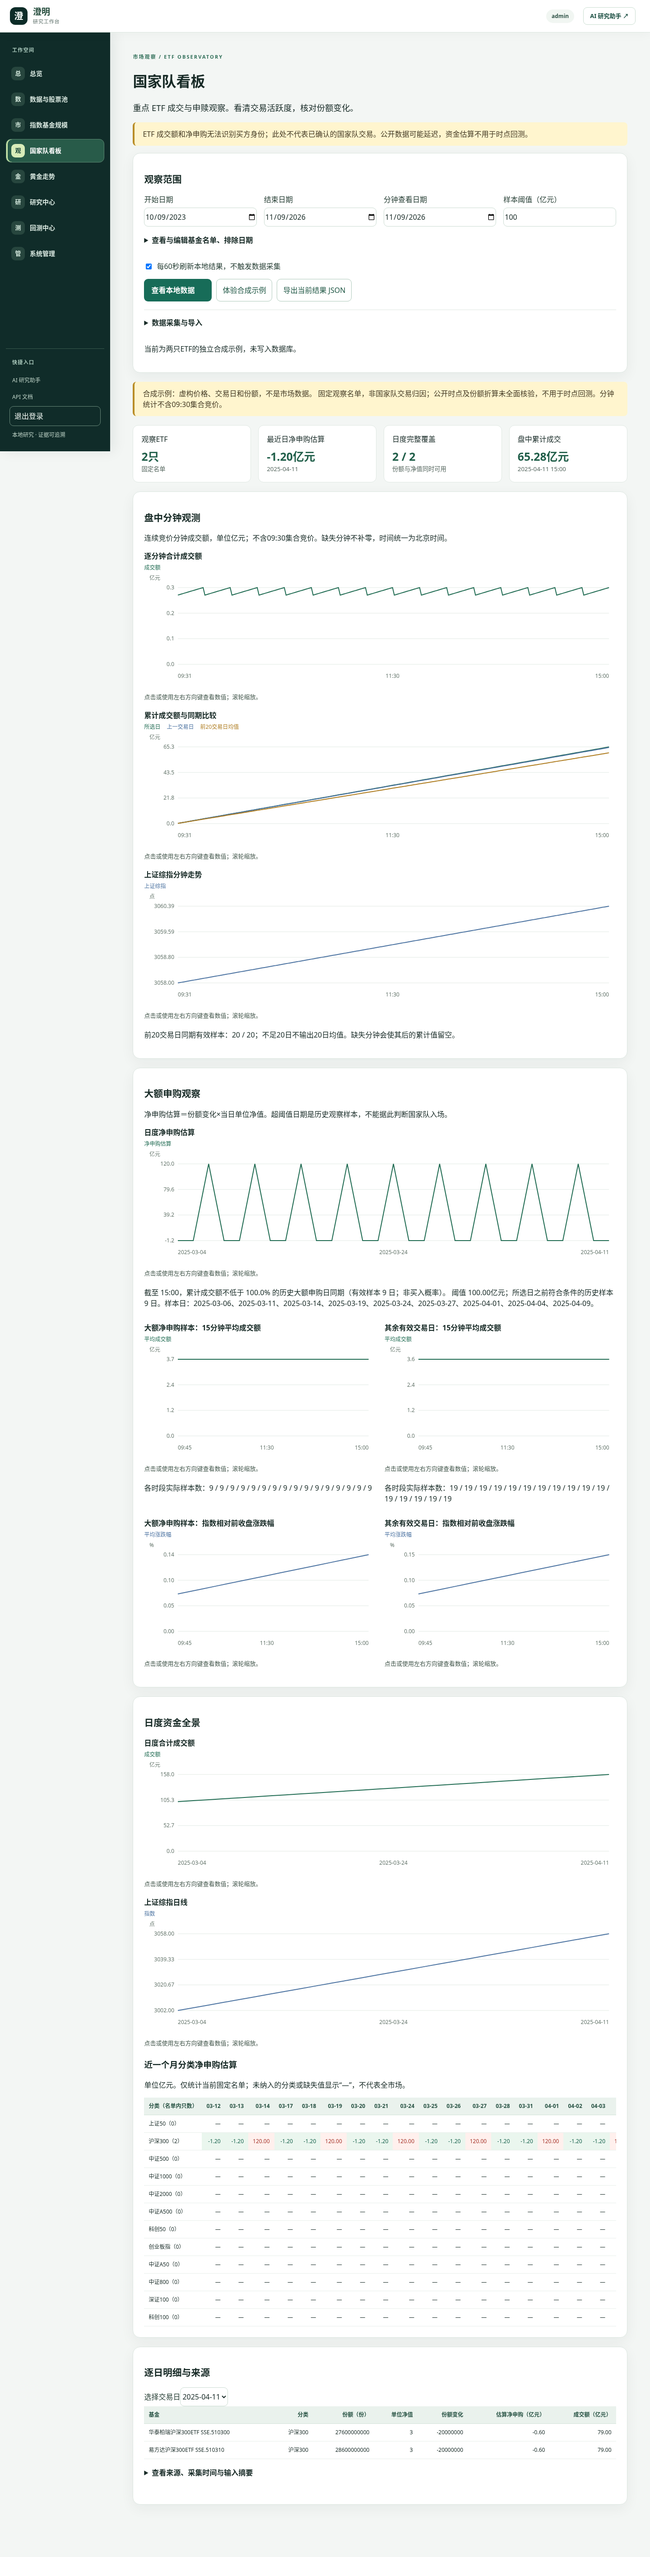
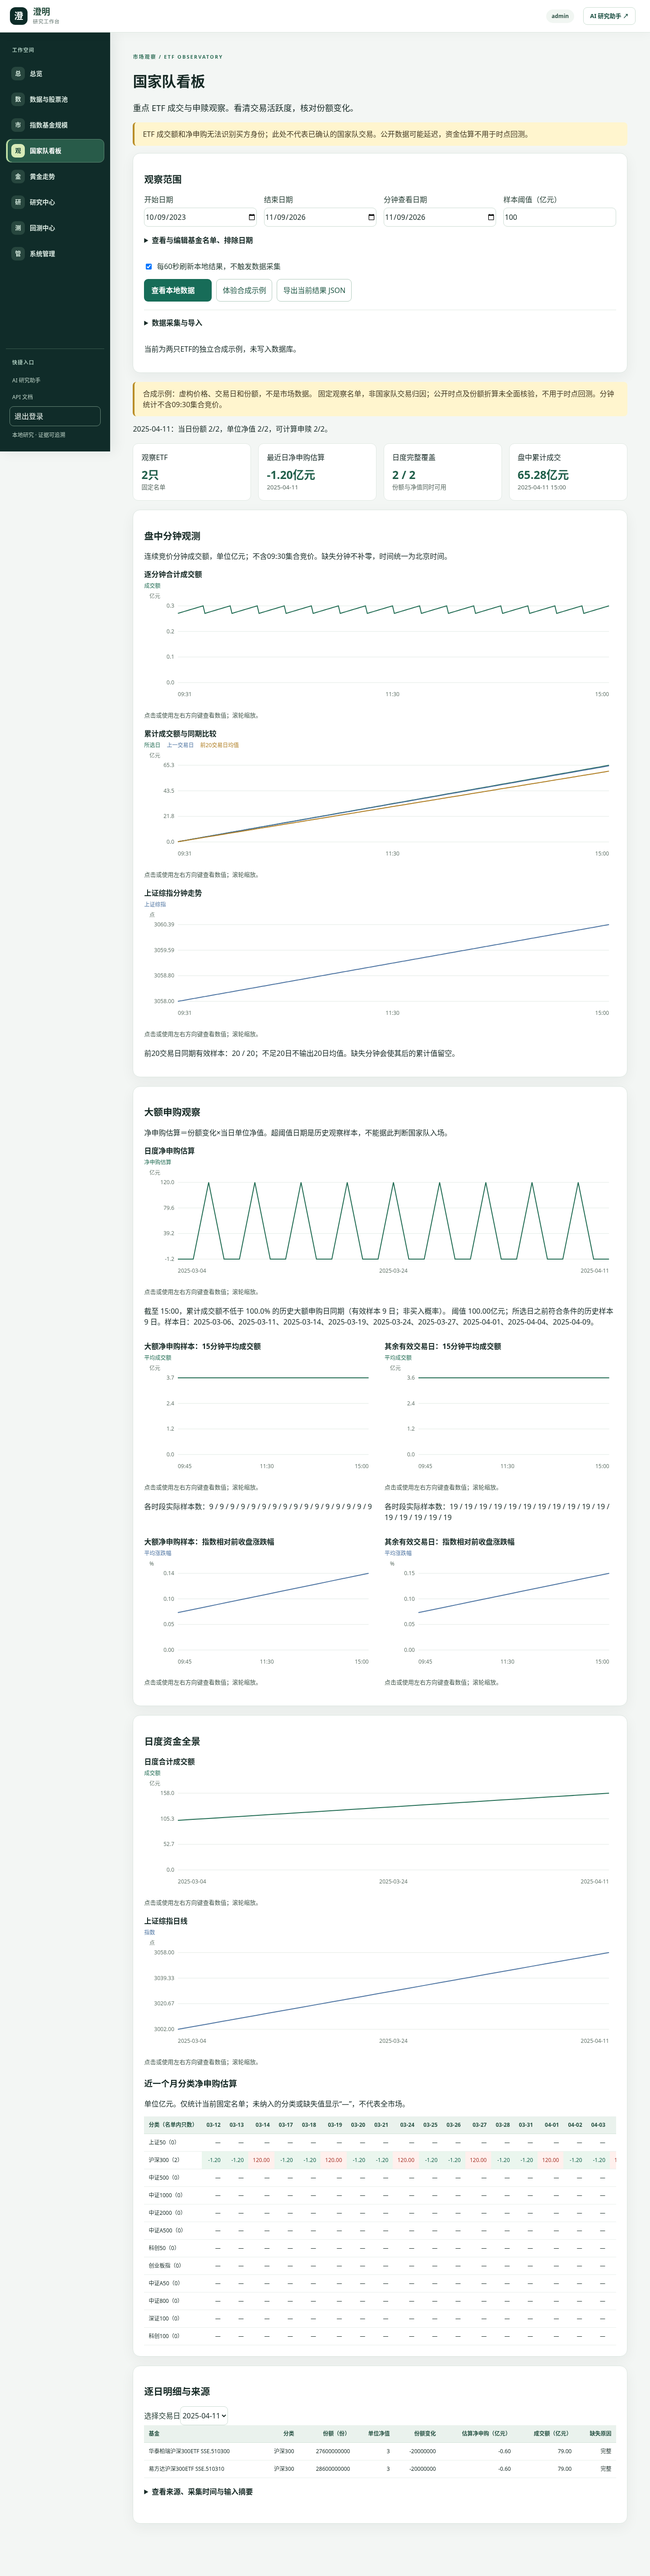
Isolate ETF source failures and expose missing daily inputs

diff --git a/src/ai_quant_assistant/web/static/national-team.js b/src/ai_quant_assistant/web/static/national-team.js
@@ -54,7 +54,9 @@
   function table(container, headers, rows) {const t=el("table"),head=el("thead"),hr=el("tr");headers.forEach(h=>hr.append(el("th",h)));head.append(hr);t.append(head);const body=el("tbody");rows.forEach(row=>{const tr=el("tr");row.forEach(v=>{const td=el("td",v?.text??v);if(v?.cls)td.className=v.cls;tr.append(td);});body.append(tr);});t.append(body);container.replaceChildren(t);}
   function render(data){observers.forEach(o=>o.disconnect());observers=[];current=data;$("nt-results").hidden=false;$("nt-banner").textContent=(data.demo?"合成示例：虚构价格、交易日和份额，不是市场数据。 ":"")+data.warning;
     const last=data.daily.at(-1),lastMinute=[...data.minute].reverse().find(p=>p.cumulative!==null&&p.cumulative!==undefined);
-    $("nt-metrics").replaceChildren();for(const [label,value,note] of [["观察ETF",data.funds.length+"只","固定名单"],["最近日净申购估算",money(last?.flow)+"亿元",last?.date||"暂无数据"],["日度完整覆盖",(last?.covered||0)+" / "+data.funds.length,"份额与净值同时可用"],["盘中累计成交",money(lastMinute?.cumulative)+"亿元",data.selected_day+" "+(lastMinute?.time||"待更新")]]){const card=el("div",undefined,"nt-metric");card.append(el("span",label),el("strong",value),el("small",note));$("nt-metrics").append(card);}
+    $("nt-metrics").replaceChildren();for(const [label,value,note] of [["观察ETF",data.funds.length+"只","固定名单"],["最近日净申购估算",last?.flow==null?"待补齐":money(last.flow)+"亿元",last?.date||"暂无数据"],["日度完整覆盖",(last?.covered||0)+" / "+data.funds.length,"份额与净值同时可用"],["盘中累计成交",money(lastMinute?.cumulative)+"亿元",data.selected_day+" "+(lastMinute?.time||"待更新")]]){const card=el("div",undefined,"nt-metric");card.append(el("span",label),el("strong",value),el("small",note));$("nt-metrics").append(card);}
+    const sourceErrors=(data.batches||[]).flatMap(b=>b.errors||[]);
+    $("nt-coverage").textContent=last?`${last.date}：当日份额 ${(last.details||[]).filter(x=>x.shares!=null).length}/${data.funds.length}，单位净值 ${(last.details||[]).filter(x=>x.nav!=null).length}/${data.funds.length}，可计算申赎 ${last.covered}/${data.funds.length}。`+(last.covered<data.funds.length?" 缺失原因见逐日明细。收盘后净值或份额可能尚未披露；自动分钟采集不会补齐日度数据。":"")+(sourceErrors.length?" 最近来源错误："+sourceErrors.slice(0,8).map(e=>e.partition+"："+(e.reason||e.error)+(e.http_status?" HTTP "+e.http_status:"")).join("；"):""):"暂无交易日数据。";
     const green="#216c53",blue="#4c73a1",gold="#af7d21";
     chart("nt-minute-chart","逐分钟合计成交额",data.minute,[{key:"amount",name:"成交额",color:green}]);
     chart("nt-cumulative-chart","累计成交额与同期比较",data.minute,[{key:"cumulative",name:"所选日",color:green},{key:"previous",name:"上一交易日",color:blue},{key:"mean20",name:"前20交易日均值",color:gold}]);
@@ -68,12 +70,12 @@
     const recent=data.daily.filter(p=>!cutoff||p.date>=cutoff.toISOString().slice(0,10));
     table($("nt-heatmap"),["分类（名单内只数）",...recent.map(p=>p.date.slice(5))],groups.map(g=>[g+"（"+data.funds.filter(f=>f.group===g).length+"）",...recent.map(p=>({text:money(p.groups[g]?.flow),cls:numeric(p.groups[g]?.flow)>0?"nt-positive":numeric(p.groups[g]?.flow)<0?"nt-negative":""}))]));
     $("nt-detail-day").replaceChildren();for(const p of data.daily) {const option=el("option",p.date);option.value=p.date;$("nt-detail-day").append(option);}if(latest)$("nt-detail-day").value=latest;details();
-    $("nt-provenance").textContent=JSON.stringify({funds:data.funds,scope:data.scope,start:data.start,end:data.end,version:data.version,threshold:data.threshold,excluded:data.excluded,input_sha256:data.input_sha256,as_of:data.as_of,batches:data.batches},null,2);
+    $("nt-provenance").textContent=JSON.stringify({batches:data.batches,funds:data.funds,scope:data.scope,start:data.start,end:data.end,version:data.version,threshold:data.threshold,excluded:data.excluded,input_sha256:data.input_sha256,as_of:data.as_of},null,2);
   }
-  function details(){const p=current?.daily.find(x=>x.date===$("nt-detail-day").value);table($("nt-details"),["基金","分类","份额（份）","单位净值","份额变化","估算净申购（亿元）","成交额（亿元）"],(p?.details||[]).map(x=>[x.name+" "+x.code,x.group,x.shares??"—",x.nav??"—",x.change??"—",x.corporate_action?"折算待核验":money(x.flow),money(x.amount)]));}
+  function details(){const p=current?.daily.find(x=>x.date===$("nt-detail-day").value);table($("nt-details"),["基金","分类","份额（份）","单位净值","份额变化","估算净申购（亿元）","成交额（亿元）","缺失原因"],(p?.details||[]).map(x=>[x.name+" "+x.code,x.group,x.shares??"—",x.nav??"—",x.change??"—",x.corporate_action?"折算待核验":money(x.flow),money(x.amount),(x.missing||[]).join("、")||"完整"]));}
   async function query(){const own=++generation,body=scope();$("nt-status").textContent="正在读取本地数据…";try {const data=await request("/query",body);if(own!==generation)return;render(data);dirty=false;$("nt-status").textContent=data.daily.length?"已读取本地数据；编辑参数后须重新查询。":"本地无可用交易日历；可先体验合成示例或同步数据。";} catch(error) {if(own===generation) throw error;}}
   function guard(fn){return async()=>{try{await fn();}catch(e){$("nt-status").textContent=e.message;}};}
-  async function poll(){clearTimeout(taskTimer);if(!taskId)return;try{const t=await request("/tasks/"+encodeURIComponent(taskId));$("nt-task").textContent=t.status+" · "+t.progress+"% · "+t.message+(t.error?" · "+t.error:"");if(["queued","running"].includes(t.status)){taskTimer=setTimeout(poll,2500);}else{$("nt-resume").hidden=true;sessionStorage.removeItem("nt-task");taskId=null;$("nt-task").textContent+="。请点击查看本地数据刷新结果。";}}catch(e){$("nt-task").textContent="进度查询失败："+e.message;$("nt-resume").hidden=false;}}
+  async function poll(){clearTimeout(taskTimer);if(!taskId)return;try{const t=await request("/tasks/"+encodeURIComponent(taskId));$("nt-task").textContent=t.status+" · "+t.progress+"% · "+t.message+(t.error?" · "+t.error:"")+(t.result?.errors?.length?" · "+t.result.errors.slice(0,5).map(e=>e.partition+":"+(e.reason||e.error)+(e.http_status?" HTTP "+e.http_status:"")).join("；"):"");if(["queued","running"].includes(t.status)){taskTimer=setTimeout(poll,2500);}else{$("nt-resume").hidden=true;sessionStorage.removeItem("nt-task");taskId=null;$("nt-task").textContent+="。请点击查看本地数据刷新结果。";}}catch(e){$("nt-task").textContent="进度查询失败："+e.message;$("nt-resume").hidden=false;}}
   function confirmed(){if(!$("nt-confirm").checked)throw Error("请勾选确认后再采集或更改计划");}
   async function sync(mode){confirmed();const t=await request("/sync",{...scope(),mode,confirm:true});taskId=t.task_id;sessionStorage.setItem("nt-task",taskId);poll();}
   async function schedule(enabled){confirmed();const result=await request("/schedule",{scope:scope(),enabled,confirm:true});$("nt-schedule").textContent=result.enabled?"交易时段自动采集已启用（服务器统一运行）；关闭页面后仍执行。":"自动采集已停止；已提交的任务会完成。";}

diff --git a/src/ai_quant_assistant/web/templates/national-team.html b/src/ai_quant_assistant/web/templates/national-team.html
@@ -31,7 +31,7 @@
 <button type="button" id="nt-import">确认导入文件</button><p>最多16 MiB，文件应包含 scope、source、rows；格式与字段见项目文档 national-team-dashboard.md。导入来源保留为未核验。</p>
 </details><p id="nt-status" role="status" aria-live="polite">正在读取观察名单…</p></section>
 <div id="nt-results" hidden>
-<div id="nt-banner" class="nt-note"></div><div id="nt-metrics" class="nt-metrics"></div>
+<div id="nt-banner" class="nt-note"></div><p id="nt-coverage" role="status"></p><div id="nt-metrics" class="nt-metrics"></div>
 <section class="panel"><h2>盘中分钟观测</h2><p>连续竞价分钟成交额，单位亿元；不含09:30集合竞价。缺失分钟不补零，时间统一为北京时间。</p>
 <div id="nt-minute-chart"></div><div id="nt-cumulative-chart"></div><div id="nt-index-minute"></div><p id="nt-history"></p></section>
 <section class="panel"><h2>大额申购观察</h2><p>净申购估算＝份额变化×当日单位净值。超阈值日期是历史观察样本，不能据此判断国家队入场。</p>

diff --git a/src/ai_quant_assistant/storage/national_team.py b/src/ai_quant_assistant/storage/national_team.py
@@ -228,29 +228,42 @@ class NationalTeamService:
             else:
                 for code in [*codes, "INDEX.000001"]:
                     calls.append((f"daily:{code}", lambda code=code: provider.bars(code, days[0], spec["end"])))
-                for code in codes:
-                    calls.append((f"nav:{code}", lambda code=code: provider.fetch_nav(code, days[0], spec["end"])))
-                for day in days:
+                months = sorted({d[:7] for d in days}, reverse=True)
+                for month in months:
+                    month_days = [d for d in days if d.startswith(month)]
+                    for code in codes:
+                        calls.append((f"nav:{code}:{month}", lambda code=code, month_days=month_days: provider.fetch_nav(code, month_days[0], month_days[-1])))
+                for day in reversed(days):
                     for market in sorted({c.split(".")[0] for c in codes}):
                         calls.append((f"shares:{market}:{day}", lambda market=market, day=day: provider.fetch_shares(market, day, codes)))
-            rows, errors, failures = [], [], 0
+            rows, errors, failures, skipped = [], [], {}, {}
             for i, (key, fetch) in enumerate(calls):
+                family = ":".join(key.split(":")[:2]) if key.startswith("shares:") else key.split(":")[0]
+                if failures.get(family, 0) >= 5:
+                    skipped[family] = skipped.get(family, 0) + 1
+                    continue
                 if not self.tasks.progress(task_id, owner_id=owner, progress=int(95 * i / len(calls)), message=f"采集 {key}"):
                     return
                 try:
                     rows.extend(validate_rows(fetch()))
-                    failures = 0
+                    failures[family] = 0
                 except Exception as exc:
                     # Never include provider URLs, headers or credential values.
-                    errors.append({"partition": key, "error": type(exc).__name__})
-                    failures += 1
-                    if failures >= 5:
-                        if not rows:
-                            raise ValueError("连续来源失败，请检查网络与数据源后重试") from exc
-                        errors.append({"partition": "remaining", "error": "StoppedAfterFiveFailures", "count": len(calls) - i - 1})
-                        break
+                    detail = {"partition": key, "error": type(exc).__name__}
+                    response = getattr(exc, "response", None)
+                    if response is not None:
+                        detail["http_status"] = response.status_code
+                    if type(exc) is ValueError and str(exc) in {
+                        "净值分页不完整，未发布此基金净值", "净值分页总数发生变化，请重试",
+                        "净值来源返回范围外数据", "上交所返回了不同统计日期", "上交所份额响应被截断",
+                    }:
+                        detail["reason"] = str(exc)
+                    errors.append(detail)
+                    failures[family] = failures.get(family, 0) + 1
+            errors.extend({"partition": family, "error": "StoppedAfterFiveFailures", "count": count} for family, count in skipped.items())
             if not rows:
-                raise ValueError("来源未返回有效记录，保留已有数据")
+                self.tasks.fail(task_id, owner_id=owner, message="所有来源均未返回有效记录，已有数据保留", error="请查看各来源错误", result={"errors": errors})
+                return
             self.save(spec, rows, "public:exchange/eastmoney", errors, task_id, owner)
         except Exception as exc:
             self.tasks.fail(task_id, owner_id=owner, message="采集失败，已有数据保留", error=type(exc).__name__ + ": 请检查来源或交易日历后重试")

diff --git a/tests/test_national_team.py b/tests/test_national_team.py
@@ -261,3 +261,56 @@ def test_confirmed_sync_api_dispatches_and_completes(app, mode):
             assert result["daily"][0]["flow"] == "100.0"
         else:
             assert result["minute"][0]["amount"] == "20"
+
+
+def test_nav_pagination_continues_past_twenty_pages(monkeypatch):
+    from datetime import timedelta
+
+    from ai_quant_assistant.providers.national_team import NationalTeamProvider
+
+    pages = []
+    class Response:
+        def __init__(self, page):
+            self.page = page
+        def raise_for_status(self):
+            pass
+        def json(self):
+            day = (date(2025, 3, 1) + timedelta(days=self.page)).isoformat()
+            return {"TotalCount": 21, "Data": {"LSJZList": [{"FSRQ": day, "DWJZ": "2.5"}]}}
+    def get(url, **kwargs):
+        assert kwargs["params"]["pageSize"] == 20
+        pages.append(kwargs["params"]["pageIndex"])
+        return Response(pages[-1])
+    monkeypatch.setattr("ai_quant_assistant.providers.national_team.requests.get", get)
+    assert len(NationalTeamProvider().fetch_nav("SSE.510300", "2025-03-01", "2025-03-31")) == 21
+    assert pages[-1] == 21
+
+
+def test_nav_failure_does_not_prevent_share_collection(app):
+    service = app.state.national_team
+    service.database.initialize()
+    with service.database.connect() as c:
+        for n, day in enumerate(DAYS):
+            c.execute("INSERT INTO trading_calendar(exchange,trade_date,is_open,source,source_batch_id,session_no) VALUES ('SSE',?,TRUE,'fixture','fixture',?)", [day, n])
+    calls = []
+    class Provider:
+        def bars(self, code, start, end, minute=False):
+            return [r for r in rows() if r["kind"] == "daily" and r["code"] == code]
+        def fetch_nav(self, code, start, end):
+            calls.append("nav")
+            raise ValueError("净值分页不完整，未发布此基金净值")
+        def fetch_shares(self, market, day, codes):
+            calls.append("shares:"+market)
+            return [r for r in rows() if r["kind"] == "shares" and r["stamp"] == day and r["code"].startswith(market)]
+    service.provider = Provider()
+    request = scope().model_dump()
+    request["funds"] = DEFAULT_FUNDS[:6]
+    task = service.request(**request, confirm=True)
+    service.run(task["task_id"])
+    assert calls.count("nav") == 5
+    assert "shares:SSE" in calls and "shares:SZSE" in calls
+    result = service.read(scope())
+    assert result["daily"][0]["details"][0]["shares"] == "120"
+    assert result["daily"][0]["details"][0]["missing"] == ["当日单位净值"]
+    assert result["daily"][0]["flow"] is None
+    assert any(e.get("reason") == "净值分页不完整，未发布此基金净值" for e in result["batches"][0]["errors"])

diff --git a/src/ai_quant_assistant/providers/national_team.py b/src/ai_quant_assistant/providers/national_team.py
@@ -67,9 +67,11 @@ class NationalTeamProvider:
 
     def fetch_nav(self, code, start, end):
         result, expected = [], None
-        for page in range(1, 21):
+        # Match the public endpoint's established 20-row pagination. A multi-year
+        # request can require more than 20 pages; never discard it at that boundary.
+        for page in range(1, 501):
             response = requests.get("https://api.fund.eastmoney.com/f10/lsjz", timeout=20,
-                                    params={"fundCode": code.split(".")[1], "pageIndex": page, "pageSize": 200,
+                                    params={"fundCode": code.split(".")[1], "pageIndex": page, "pageSize": 20,
                                             "startDate": start, "endDate": end},
                                     headers={"Referer": "https://fundf10.eastmoney.com/", "User-Agent": "Mozilla/5.0"})
             response.raise_for_status()
@@ -78,6 +80,8 @@ class NationalTeamProvider:
             if expected is not None and count != expected:
                 raise ValueError("净值分页总数发生变化，请重试")
             expected = count
+            if expected < 0 or expected > 10000:
+                raise ValueError("净值总数超出允许范围")
             records = payload["Data"]["LSJZList"]
             for row in records:
                 if not start <= row["FSRQ"] <= end:

diff --git a/src/ai_quant_assistant/research/national_team.py b/src/ai_quant_assistant/research/national_team.py
@@ -87,8 +87,13 @@ def calculate(funds, days, rows, start, end, selected_day=None, threshold="10000
             # Explicit corporate actions invalidate the simple difference formula.
             if current.get("corporate_action") or prior.get("corporate_action"):
                 flow = None
+            missing = [name for name, value in (("当日份额", current.get("shares")),
+                       ("前一交易日份额", prior.get("shares")), ("当日单位净值", nav.get("nav"))) if value is None]
+            if current.get("corporate_action") or prior.get("corporate_action"):
+                missing.append("份额折算待核验")
             detail.append({**fund, "shares": current.get("shares"), "nav": nav.get("nav"),
                            "change": number(change), "flow": number(flow), "amount": quote.get("amount"),
+                           "missing": missing,
                            "corporate_action": bool(current.get("corporate_action") or prior.get("corporate_action"))})
         flow = total([Decimal(x["flow"]) if x["flow"] is not None else None for x in detail])
         amount = total([Decimal(x["amount"]) if x["amount"] is not None else None for x in detail])

diff --git a/docs/national-team-dashboard.md b/docs/national-team-dashboard.md
@@ -23,6 +23,7 @@
 - 上交所份额：`https://query.sse.com.cn/commonQuery.do`，`TOT_VOL`（万份）乘10000；校验统计日期、重复记录和截断。
 - 深交所份额：沿用 AkShare `fund_scale_daily_szse` 标准化为份。
 - 单位净值：`https://api.fund.eastmoney.com/f10/lsjz`，完整遍历分页，拒绝总数变化、缺页和范围外数据。
+- 日度任务按月采集净值、从近期向过去采集份额；同类来源连续失败5次只暂停该来源，继续尝试其他来源。净值分页使用公开接口的20条/页，并允许超过20页。采集结果及页面显示分区错误、可用的HTTP状态码；查询展示各基金缺失的具体输入。
 - 日线/分钟：`https://push2his.eastmoney.com/api/qt/stock/kline/get`、`trends2/get`，不复权，金额为元。指数固定上证综指000001。
 - 公开分钟源最近约5个交易日；系统持续保留本地记录，20日均值需积累或导入。无法承诺从2023年回补分钟历史或实时无延迟。统计采用分钟结束标签09:31–11:30、13:01–15:00，不含09:30集合竞价；因此分钟金额合计可能不同于完整日度成交额。
 - 披露时点未知的数据不用于时点回测。没有复现文章未提供的62个日期和排除规则。
